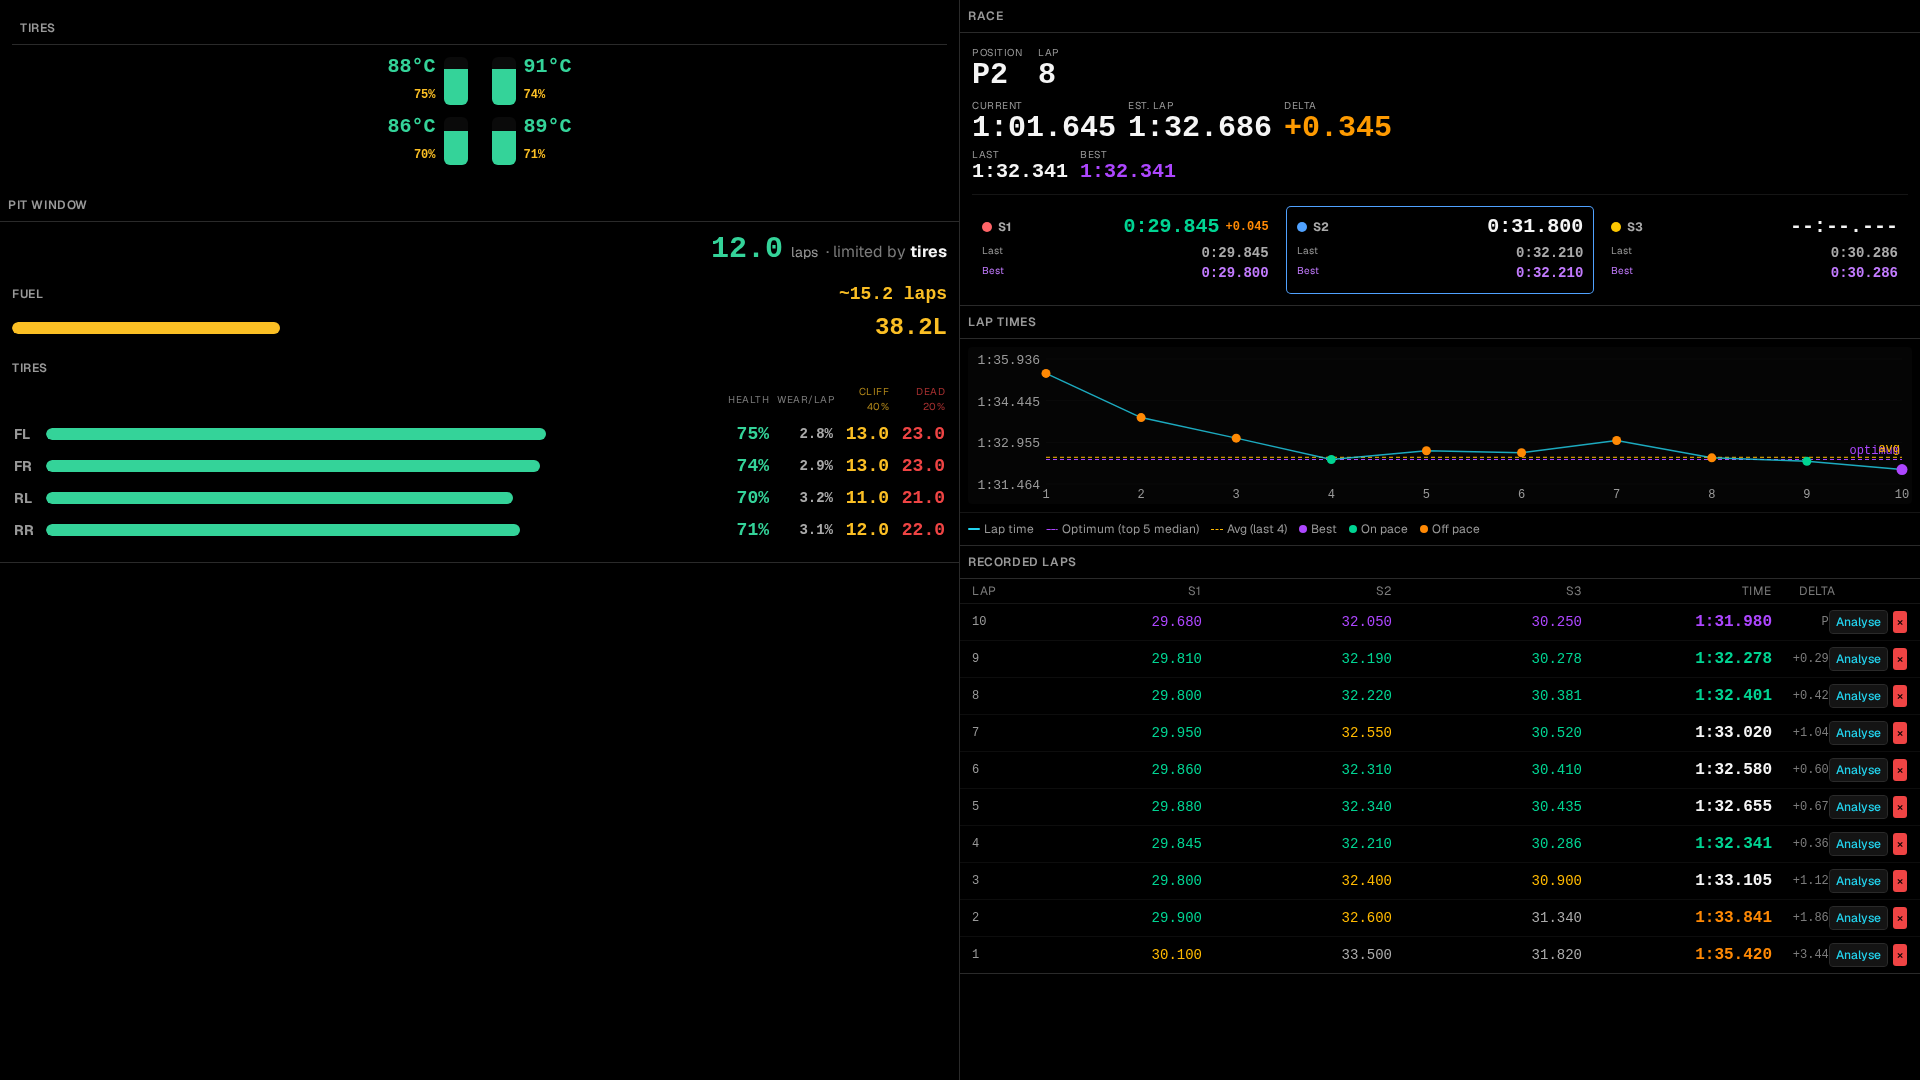
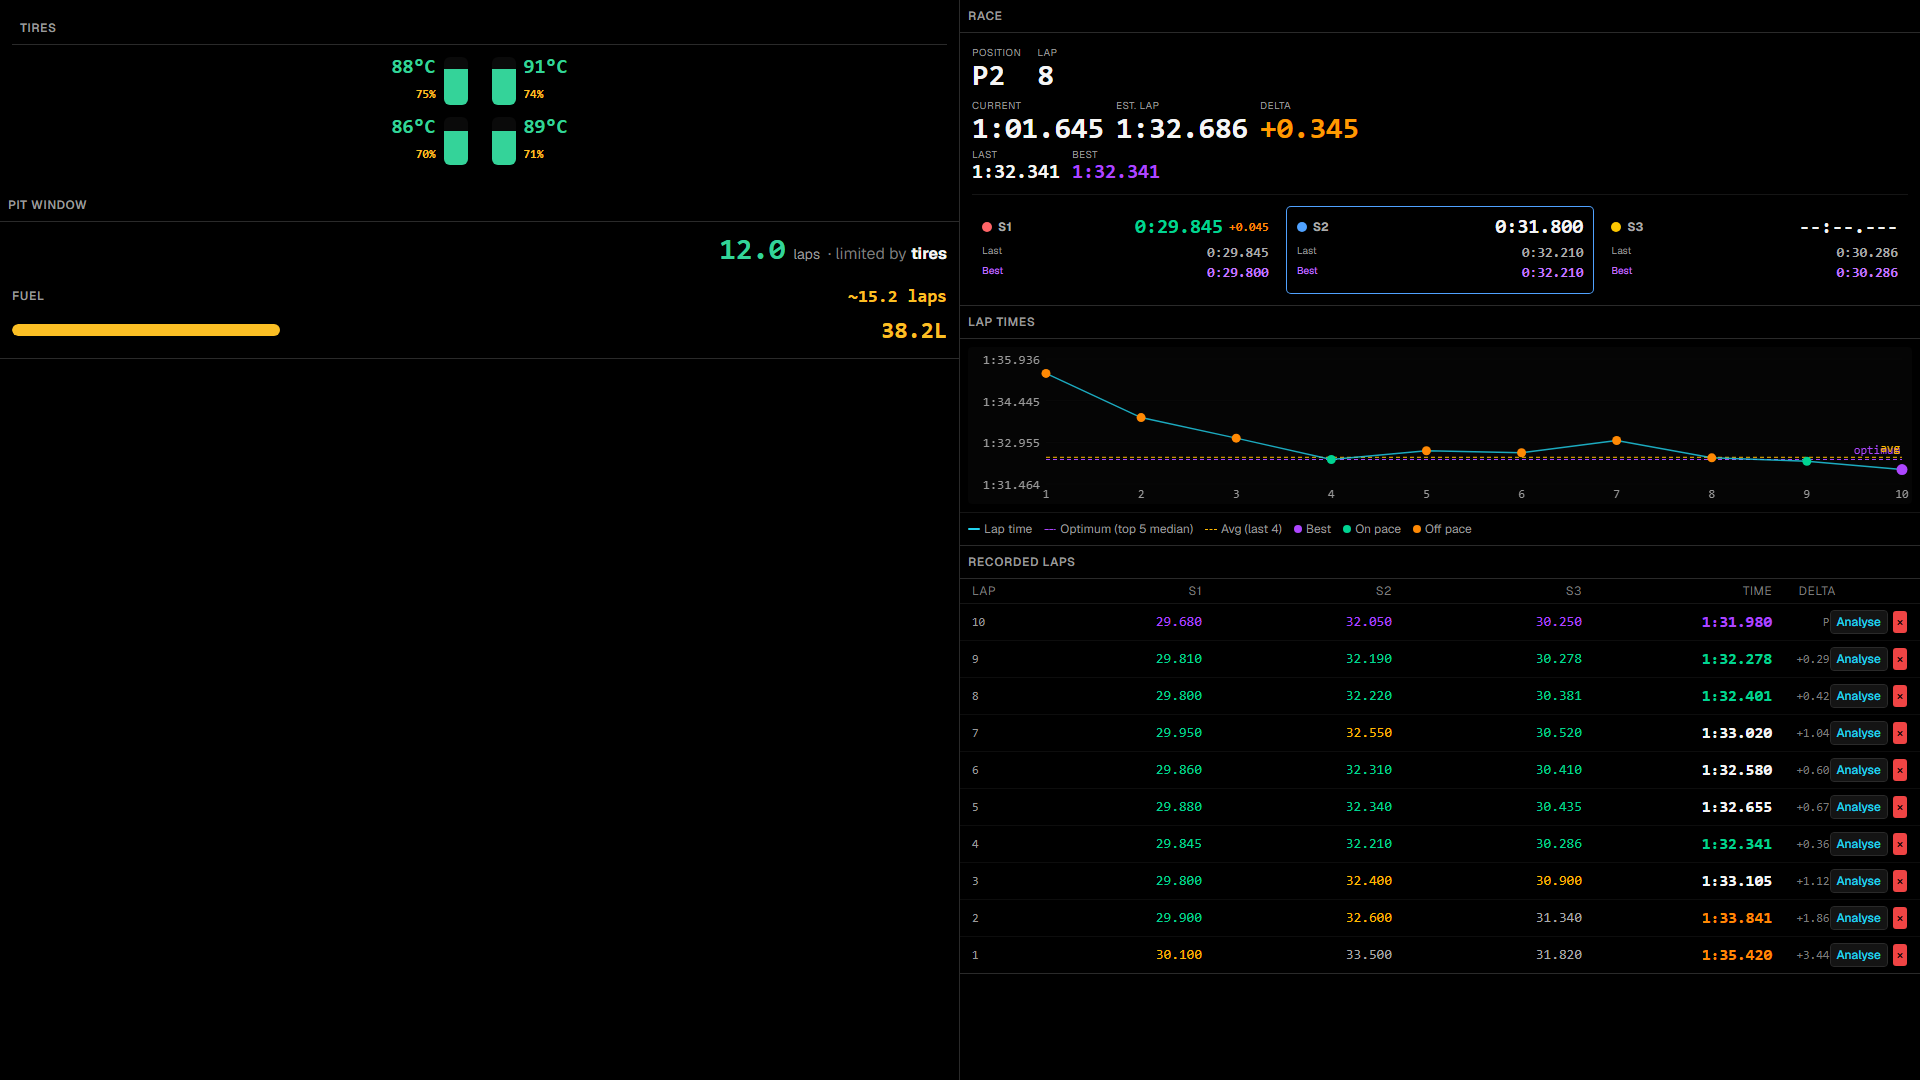
fix: update tire wear estimation logic and enhance tire section display

diff --git a/client/src/components/telemetry/PitEstimate.tsx b/client/src/components/telemetry/PitEstimate.tsx
@@ -24,7 +24,9 @@ export function PitEstimate({ packet, view, pit }: PitEstimateProps) {
   const adapter = getGame(gameId);
   const telemetryModel = adapter.telemetry;
   const analysis = resolveAnalysisTelemetry(adapter);
-  const wears = view?.tires.wear ? [view.tires.wear.fl, view.tires.wear.fr, view.tires.wear.rl, view.tires.wear.rr] : [packet?.TireWearFL ?? 0, packet?.TireWearFR ?? 0, packet?.TireWearRL ?? 0, packet?.TireWearRR ?? 0];
+  const wears = view?.tires.wear
+    ? [view.tires.wear.fl, view.tires.wear.fr, view.tires.wear.rl, view.tires.wear.rr]
+    : [packet?.TireWearFL ?? 0, packet?.TireWearFR ?? 0, packet?.TireWearRL ?? 0, packet?.TireWearRR ?? 0];
   const healthAvailable = view ? hasTireHealthDataSemantic(wears, analysis.tireHealth) : hasTireHealthData(packet!, analysis.tireHealth);
   const fuel = view ? getFuelDisplay({ Fuel: view.fuel.amount ?? 0, FuelCapacity: view.fuel.capacity }, telemetryModel.fuel) : getFuelDisplay(packet!, telemetryModel.fuel);
   const fuelPct = fuel.fillRatio === undefined ? undefined : fuel.fillRatio * 100;
@@ -34,10 +36,11 @@ export function PitEstimate({ packet, view, pit }: PitEstimateProps) {
 
   const fuelLaps = pit?.fuelLapsRemaining ?? null;
   const tireLabels = ["FL", "FR", "RL", "RR"] as const;
+  const canEstimateWear = analysis.tireWearRate.source !== "unavailable";
+  const showTireSection = analysis.tireHealth.source !== "unavailable" || canEstimateWear;
   // Per-tire display
   const tireData = tireLabels.map((label, i) => {
     const health = healthAvailable ? (1 - wears[i]) * 100 : null;
-    const canEstimateWear = analysis.tireWearRate.source !== "unavailable";
     const wpl = canEstimateWear ? (pit?.tireEstimates?.wearPerLap[i] ?? 0) : 0;
     return {
       label,
@@ -91,48 +94,49 @@ export function PitEstimate({ packet, view, pit }: PitEstimateProps) {
           </div>
         </div>
 
-        {/* Tire section */}
-        <div className="py-1">
-          <div className="text-xs text-app-text-muted uppercase tracking-wider font-semibold mb-2">
-            {analysis.tireHealth.source === "direct" && analysis.tireHealth.freshness === "pit-snapshot" ? m.analyse_wheels_pit_health() : m.label_tires()}
-          </div>
+        {showTireSection && (
+          <div className="py-1">
+            <div className="text-xs text-app-text-muted uppercase tracking-wider font-semibold mb-2">
+              {analysis.tireHealth.source === "direct" && analysis.tireHealth.freshness === "pit-snapshot" ? m.analyse_wheels_pit_health() : m.label_tires()}
+            </div>
 
-          {/* Column headers */}
-          <div className="grid grid-cols-[auto_1fr_auto_auto_auto_auto] gap-x-2 items-center mb-1 px-0.5">
-            <div className="w-6" />
-            <div />
-            <div className="text-app-caption text-app-text-dim uppercase tracking-wider text-right w-12">{m.pit_health()}</div>
-            <div className="text-app-caption text-app-text-dim uppercase tracking-wider text-right w-14">{m.pit_wear_lap()}</div>
-            <div className="text-app-caption uppercase tracking-wider text-right w-12 text-(--severity-caution)/70">
-              {m.pit_cliff()}
-              {pit?.cliffPct ? ` ${pit.cliffPct}%` : ""}
+            {/* Column headers */}
+            <div className="grid grid-cols-[auto_1fr_auto_auto_auto_auto] gap-x-2 items-center mb-1 px-0.5">
+              <div className="w-6" />
+              <div />
+              <div className="text-app-caption text-app-text-dim uppercase tracking-wider text-right w-12">{m.pit_health()}</div>
+              <div className="text-app-caption text-app-text-dim uppercase tracking-wider text-right w-14">{m.pit_wear_lap()}</div>
+              <div className="text-app-caption uppercase tracking-wider text-right w-12 text-(--severity-caution)/70">
+                {m.pit_cliff()}
+                {pit?.cliffPct ? ` ${pit.cliffPct}%` : ""}
+              </div>
+              <div className="text-app-caption uppercase tracking-wider text-right w-12 text-(--severity-critical)/70">
+                {m.pit_dead()}
+                {pit?.deadPct ? ` ${pit.deadPct}%` : ""}
+              </div>
             </div>
-            <div className="text-app-caption uppercase tracking-wider text-right w-12 text-(--severity-critical)/70">
-              {m.pit_dead()}
-              {pit?.deadPct ? ` ${pit.deadPct}%` : ""}
-            </div>
+            {tireData.map((t) => (
+              <div key={t.label} className="grid grid-cols-[auto_1fr_auto_auto_auto_auto] gap-x-2 items-center py-1.5 px-0.5">
+                <div className="text-sm font-bold text-app-text-muted w-6">{t.label}</div>
+                <div className="h-3 rounded-full overflow-hidden">
+                  <div className="h-full rounded-full" style={{ backgroundColor: t.healthColor, width: t.health === null ? 0 : `${t.health}%` }} />
+                </div>
+                <div className="text-lg font-mono font-black tabular-nums leading-none text-right w-12" style={{ color: t.healthColor }}>
+                  {t.health === null ? "—" : `${t.health.toFixed(0)}%`}
+                </div>
+                <div className={`text-sm font-mono font-bold tabular-nums leading-none text-right w-14 ${t.wearPerLap ? "text-app-text-secondary" : "text-app-text-dim"}`}>
+                  {t.wearPerLap ? `${t.wearPerLap}%` : "—"}
+                </div>
+                <div className="text-lg font-mono font-bold tabular-nums leading-none text-right w-12" style={{ color: t.toCliff != null ? "var(--severity-caution)" : "var(--app-text-dim)" }}>
+                  {t.toCliff != null ? t.toCliff.toFixed(1) : "—"}
+                </div>
+                <div className="text-lg font-mono font-bold tabular-nums leading-none text-right w-12" style={{ color: t.toDead != null ? "var(--severity-critical)" : "var(--app-text-dim)" }}>
+                  {t.toDead != null ? t.toDead.toFixed(1) : "—"}
+                </div>
+              </div>
+            ))}
           </div>
-          {tireData.map((t) => (
-            <div key={t.label} className="grid grid-cols-[auto_1fr_auto_auto_auto_auto] gap-x-2 items-center py-1.5 px-0.5">
-              <div className="text-sm font-bold text-app-text-muted w-6">{t.label}</div>
-              <div className="h-3 rounded-full overflow-hidden">
-                <div className="h-full rounded-full" style={{ backgroundColor: t.healthColor, width: t.health === null ? 0 : `${t.health}%` }} />
-              </div>
-              <div className="text-lg font-mono font-black tabular-nums leading-none text-right w-12" style={{ color: t.healthColor }}>
-                {t.health === null ? "—" : `${t.health.toFixed(0)}%`}
-              </div>
-              <div className={`text-sm font-mono font-bold tabular-nums leading-none text-right w-14 ${t.wearPerLap ? "text-app-text-secondary" : "text-app-text-dim"}`}>
-                {t.wearPerLap ? `${t.wearPerLap}%` : "—"}
-              </div>
-              <div className="text-lg font-mono font-bold tabular-nums leading-none text-right w-12" style={{ color: t.toCliff != null ? "var(--severity-caution)" : "var(--app-text-dim)" }}>
-                {t.toCliff != null ? t.toCliff.toFixed(1) : "—"}
-              </div>
-              <div className="text-lg font-mono font-bold tabular-nums leading-none text-right w-12" style={{ color: t.toDead != null ? "var(--severity-critical)" : "var(--app-text-dim)" }}>
-                {t.toDead != null ? t.toDead.toFixed(1) : "—"}
-              </div>
-            </div>
-          ))}
-        </div>
+        )}
       </div>
     </div>
   );
